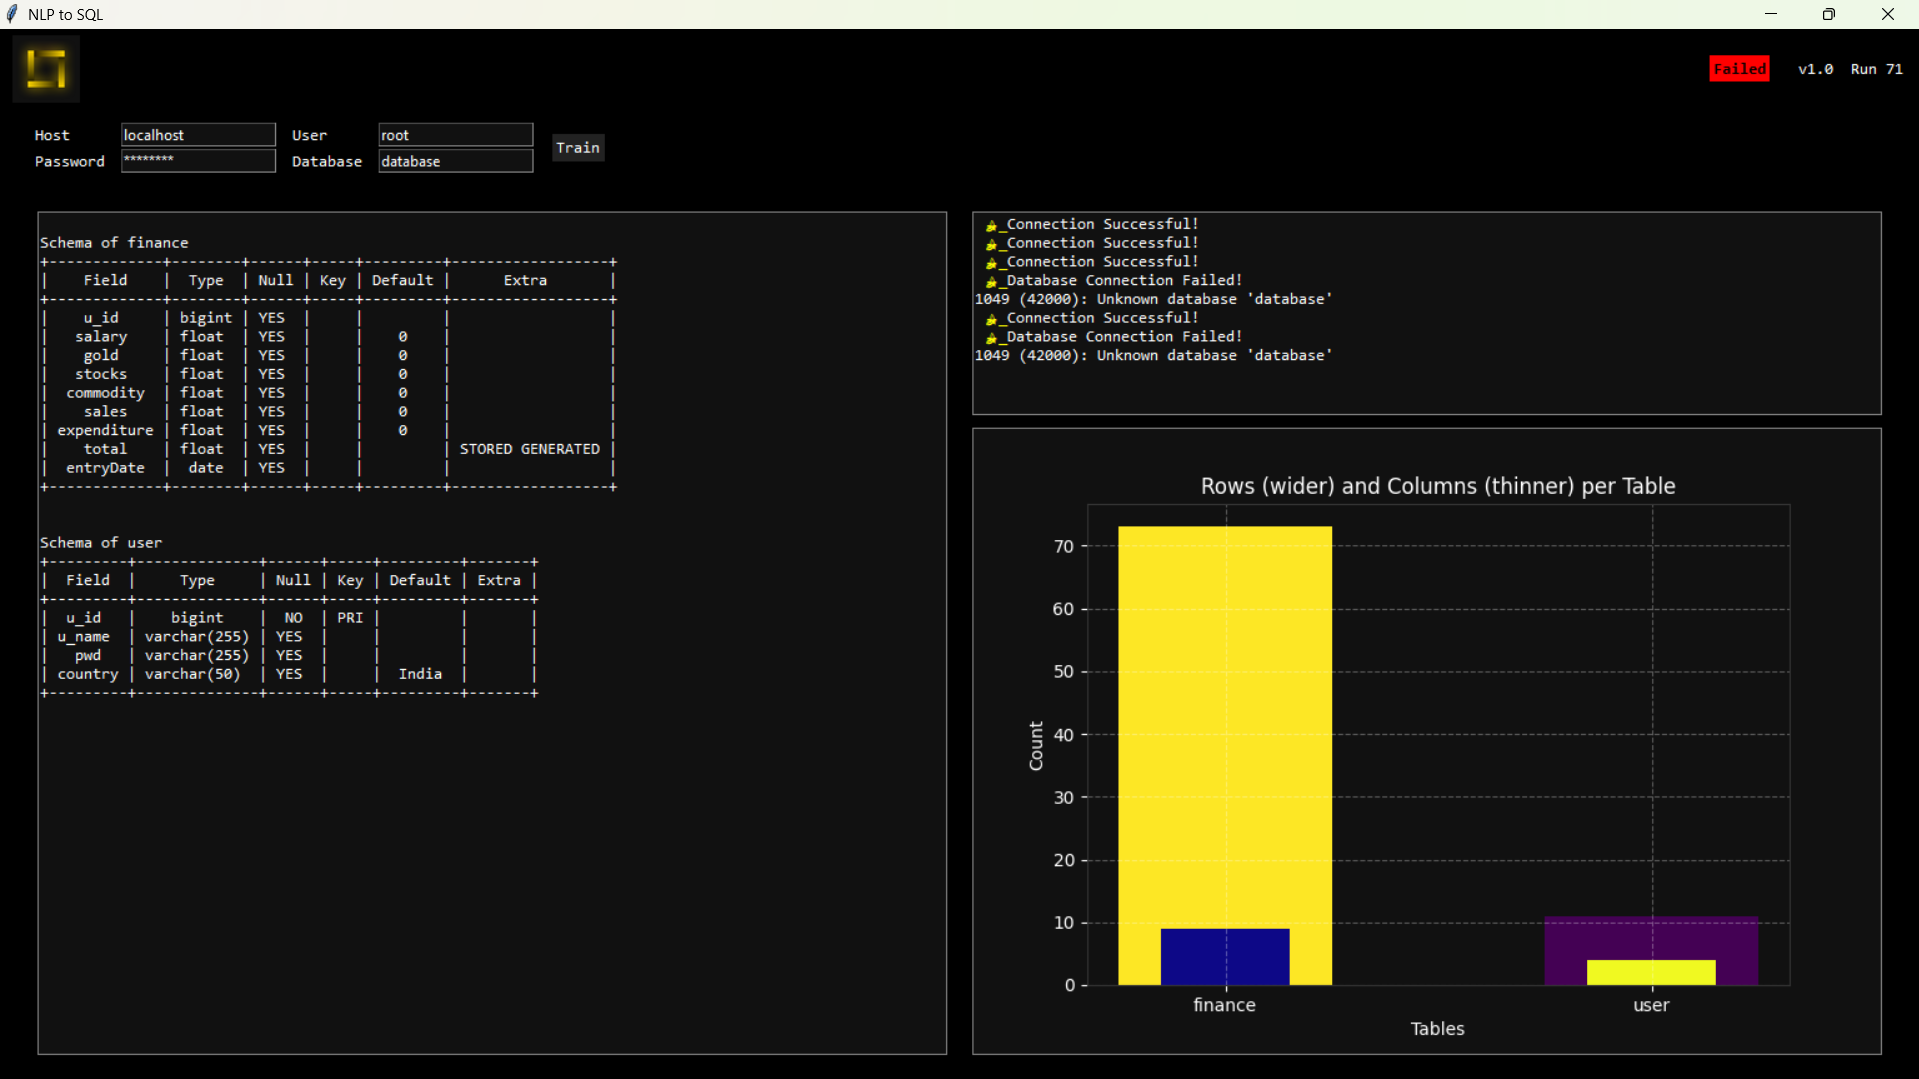
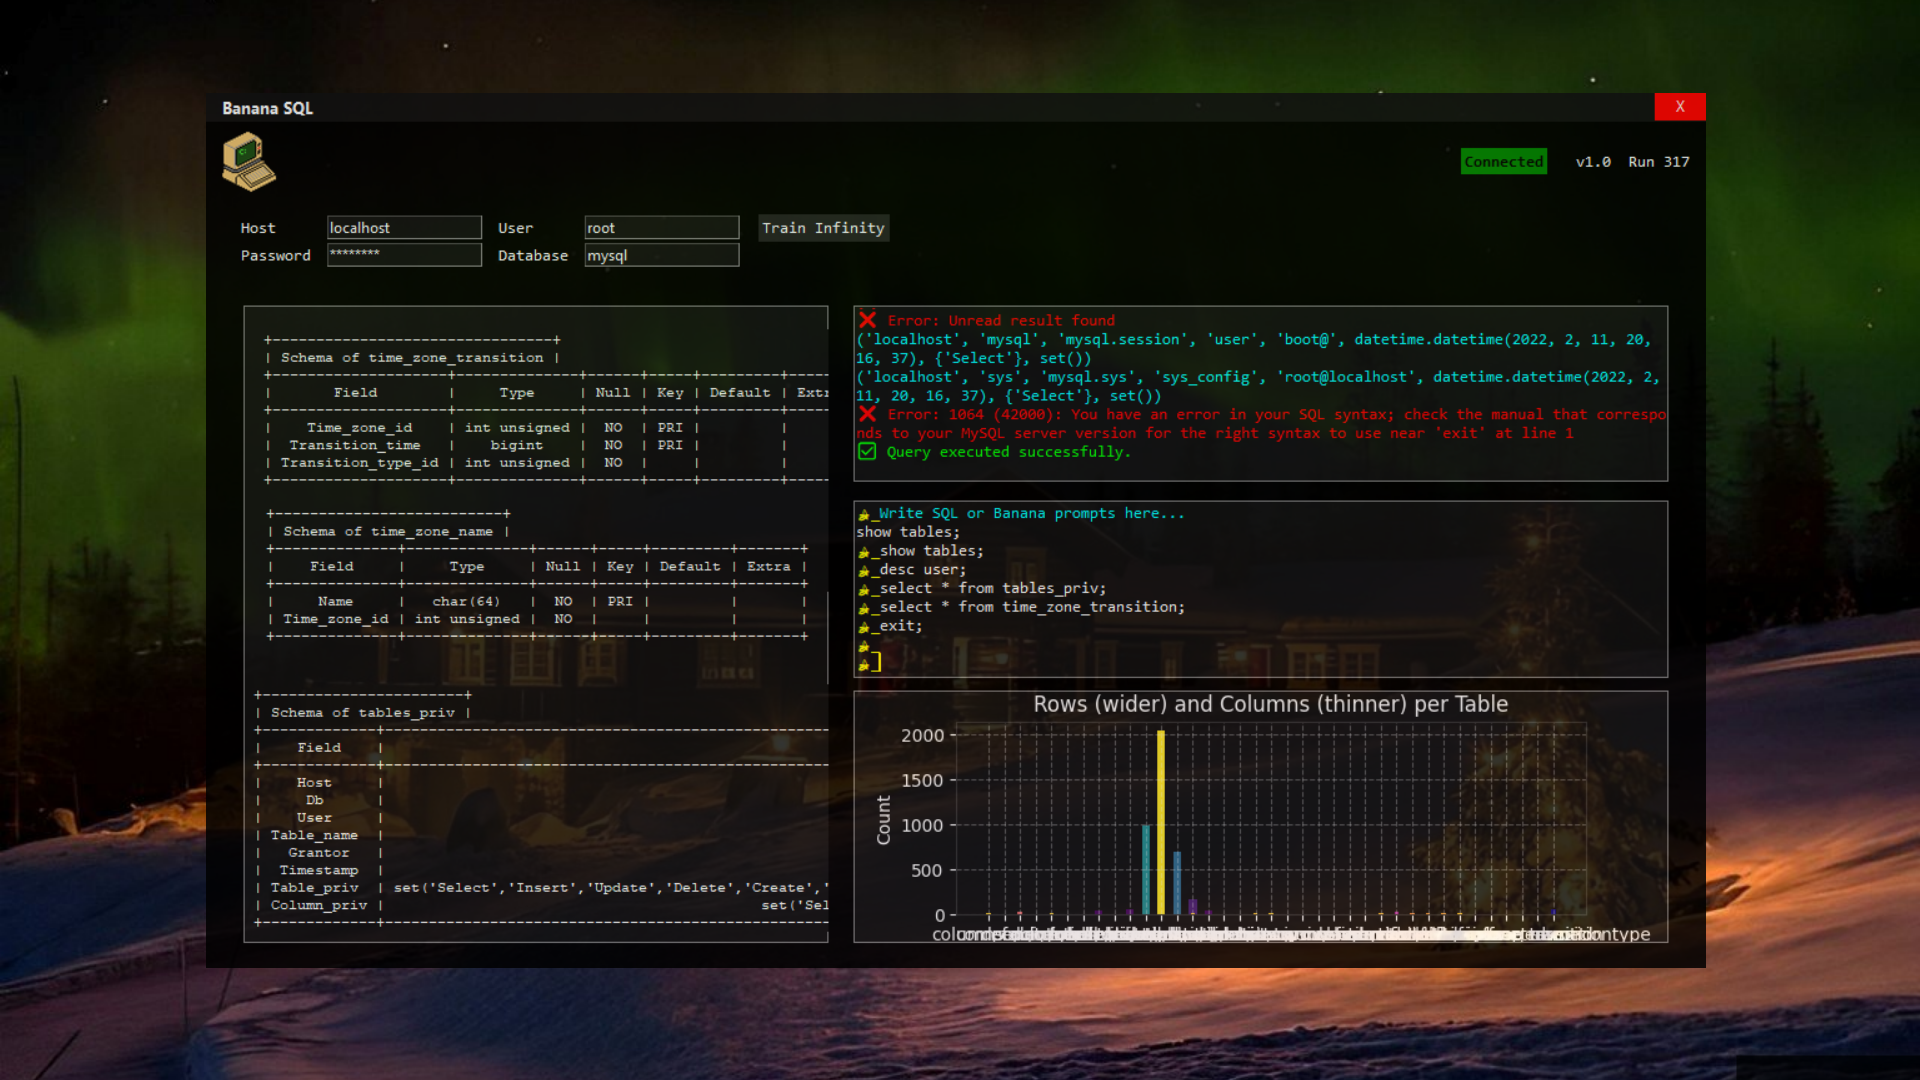
glassmorphism

diff --git a/app/src/main.py b/app/src/main.py
@@ -14,8 +14,7 @@ from setup import *                                                  # user defi
 
 #==========================================================================================================#
 
-banner='''
-====================================================================================
+banner='''====================================================================================
 =====  ====================================================  ============  ==  =====
 =====  ====================================================  ============  ==  =====
 =====  ====================================================  ============  ==  =====
@@ -66,9 +65,6 @@ class GIFPlayer(tk.Label):
 class SQLApp:
     def __init__(self, root):
         self.root = root
-        self.root.title("NLP to SQL")
-        self.root.geometry("1000x700")
-        self.root.configure(bg="black")
         self.version = "v1.0"
         self.run = f"Run {update_runs()}"
         self.status_color = "yellow"
@@ -104,7 +100,7 @@ class SQLApp:
         logo_img = logo_img.resize((int(logo_img.width * (50 / logo_img.height)), 50), Image.Resampling.LANCZOS)
         self.logo_photo = ImageTk.PhotoImage(logo_img)
 
-        logo_label = tk.Label(topbar, image=self.logo_photo, bg="#111")
+        logo_label = tk.Label(topbar, image=self.logo_photo, bg="black")
         logo_label.pack(side=tk.LEFT, padx=10, pady=5)
 
         info = tk.Label(topbar, text=f"{self.version}  {self.run}", fg="white", bg="black", font=("Consolas", 10))
@@ -142,7 +138,7 @@ class SQLApp:
         guide=tk.Label(input_frame, text="<----------------------- Start here :D", bg="black", fg="white", font=("Consolas", 10))
         guide.grid(row=1, column=4, padx=5, sticky="w")
 
-        self.train_btn = tk.Button(input_frame, text="Train Infinity", command=self.connect_and_parse, bg="#222", fg="white", font=("Consolas", 10), bd=0)
+        self.train_btn = tk.Button(input_frame, text="Train Infinity", command=self.connect_and_parse, bg="#222", fg="white", font=("Consolas", 10), bd=0, cursor="hand2")
         self.train_btn.grid(row=0, column=4, rowspan=1, padx=10, sticky="w")
 
         # Main container frame
@@ -175,7 +171,7 @@ class SQLApp:
         self.user_terminal.pack(fill=tk.BOTH, expand=True, padx=10, pady=(10, 5))
 
         self.terminal_gif = GIFPlayer(right_frame, place_holder_gif)
-        self.terminal_gif.place(relx=0.5, rely=0.55, anchor=tk.CENTER)  # Adjust vertically if needed
+        self.terminal_gif.place(relx=0.5, rely=0.50, anchor=tk.CENTER)  # Adjust vertically if needed
 
         # Bar Graph Frame in bottom-right
         self.graph_frame = tk.Frame(right_frame, bg="#111", highlightbackground="gray", highlightthickness=1, height=150)
@@ -380,9 +376,41 @@ def unlock_terminal(self):
     self.terminal.config(state=tk.NORMAL)
 def lock_terminal(self):
     self.terminal.config(state=tk.DISABLED)
+def start_move(event):
+    root.x = event.x
+    root.y = event.y
+
+def do_move(event):
+    x = root.winfo_pointerx() - root.x
+    y = root.winfo_pointery() - root.y
+    root.geometry(f'+{x}+{y}')
+
+def close_window():
+    root.destroy()
+
 if __name__ == '__main__':
     from db_config import host, user, pwd, database
     root = tk.Tk()
+    root.title("Banana SQL")
+    root.geometry("1200x700+100+100")
+    root.configure(bg="black")
+    root.attributes('-alpha', 0.85)  # Set transparency
+    root.overrideredirect(True)
+
+    title_bar = tk.Frame(root, bg="#101010", relief="raised", bd=0, height=10, cursor="fleur")
+    title_bar.pack(fill='both', side='top')
+
+    # Title
+    title_label = tk.Label(title_bar, text="Banana SQL", bg="#101010", fg="white", font=("Segoe UI", 10, "bold"))
+    title_label.pack(side="left", padx=10)
+
+    # Move window
+    title_bar.bind("<ButtonPress-1>", start_move)
+    title_bar.bind("<B1-Motion>", do_move)
+
+    # Minimize and close buttons
+    btn_close = tk.Button(title_bar, text="X", bg="red", fg="white", borderwidth=0, command=close_window,width=5, cursor="hand2")
+    btn_close.pack(side="right")
     app = SQLApp(root)
 # =================================================================================================== Set the terminal colors
     for _ in prompt_colors:
